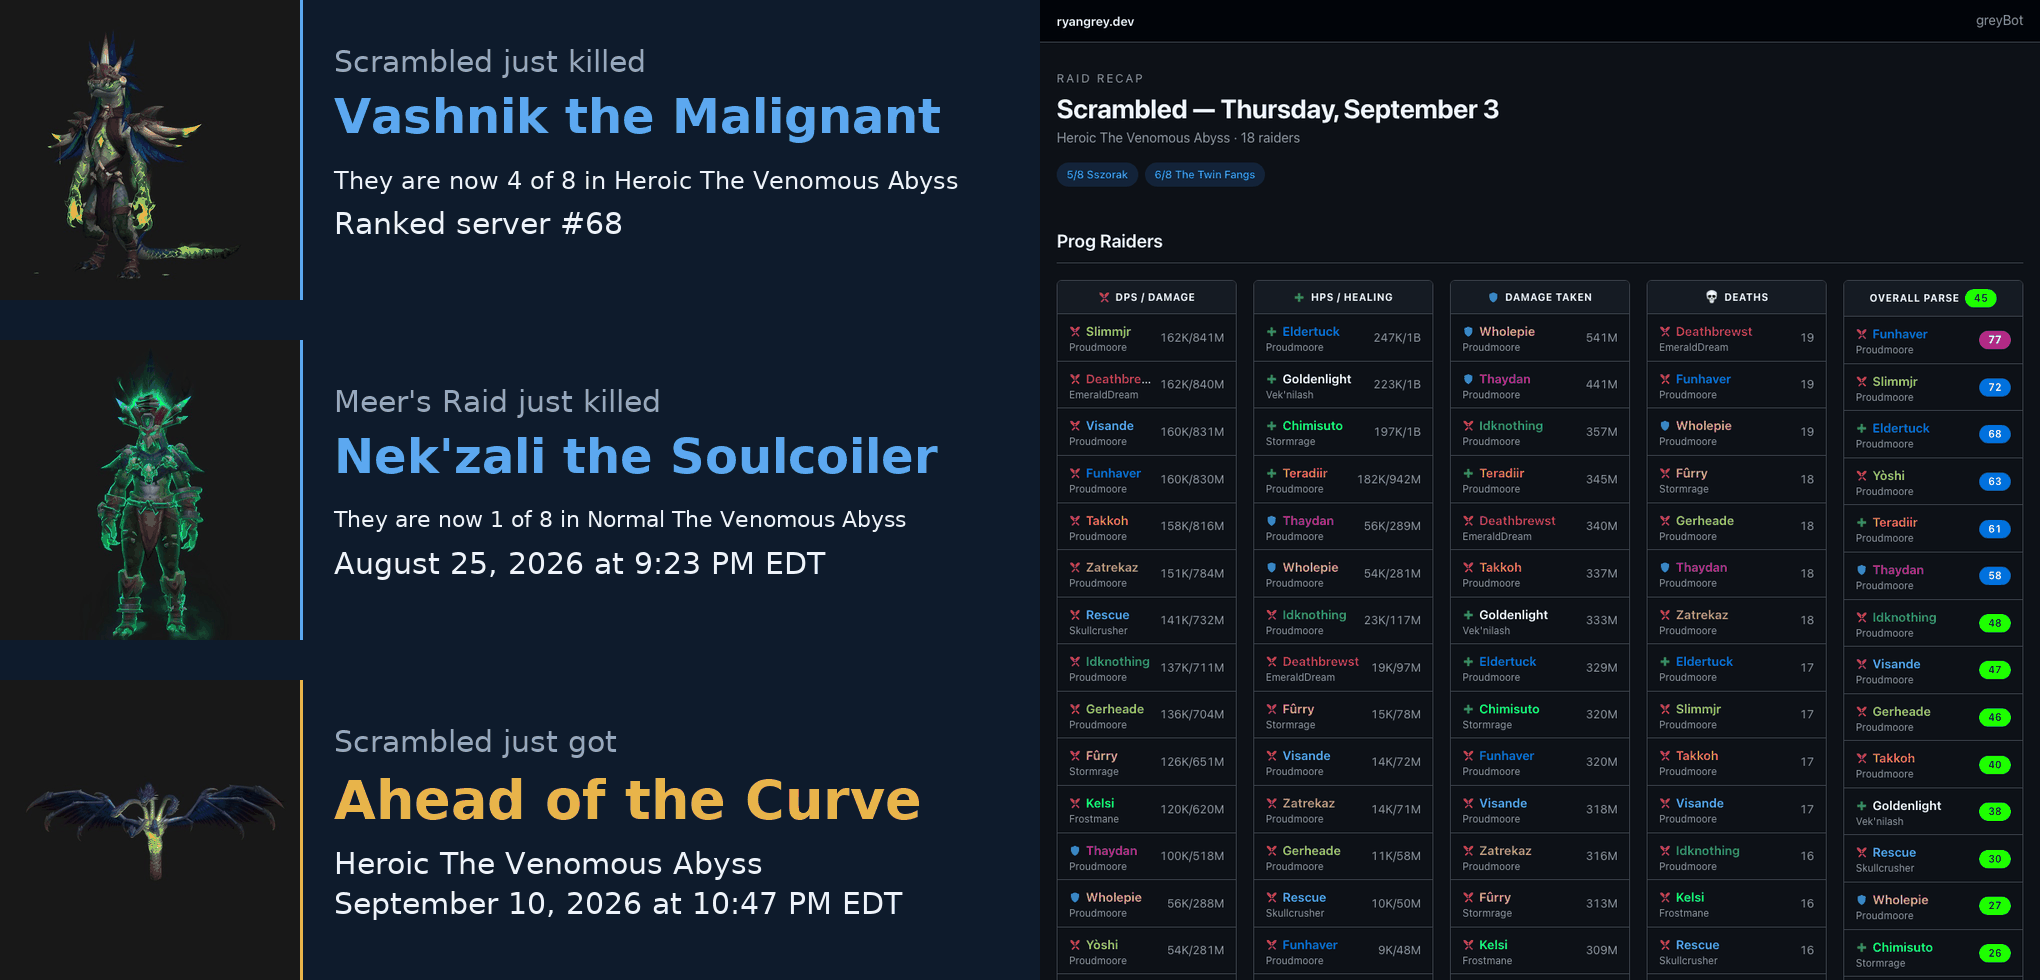
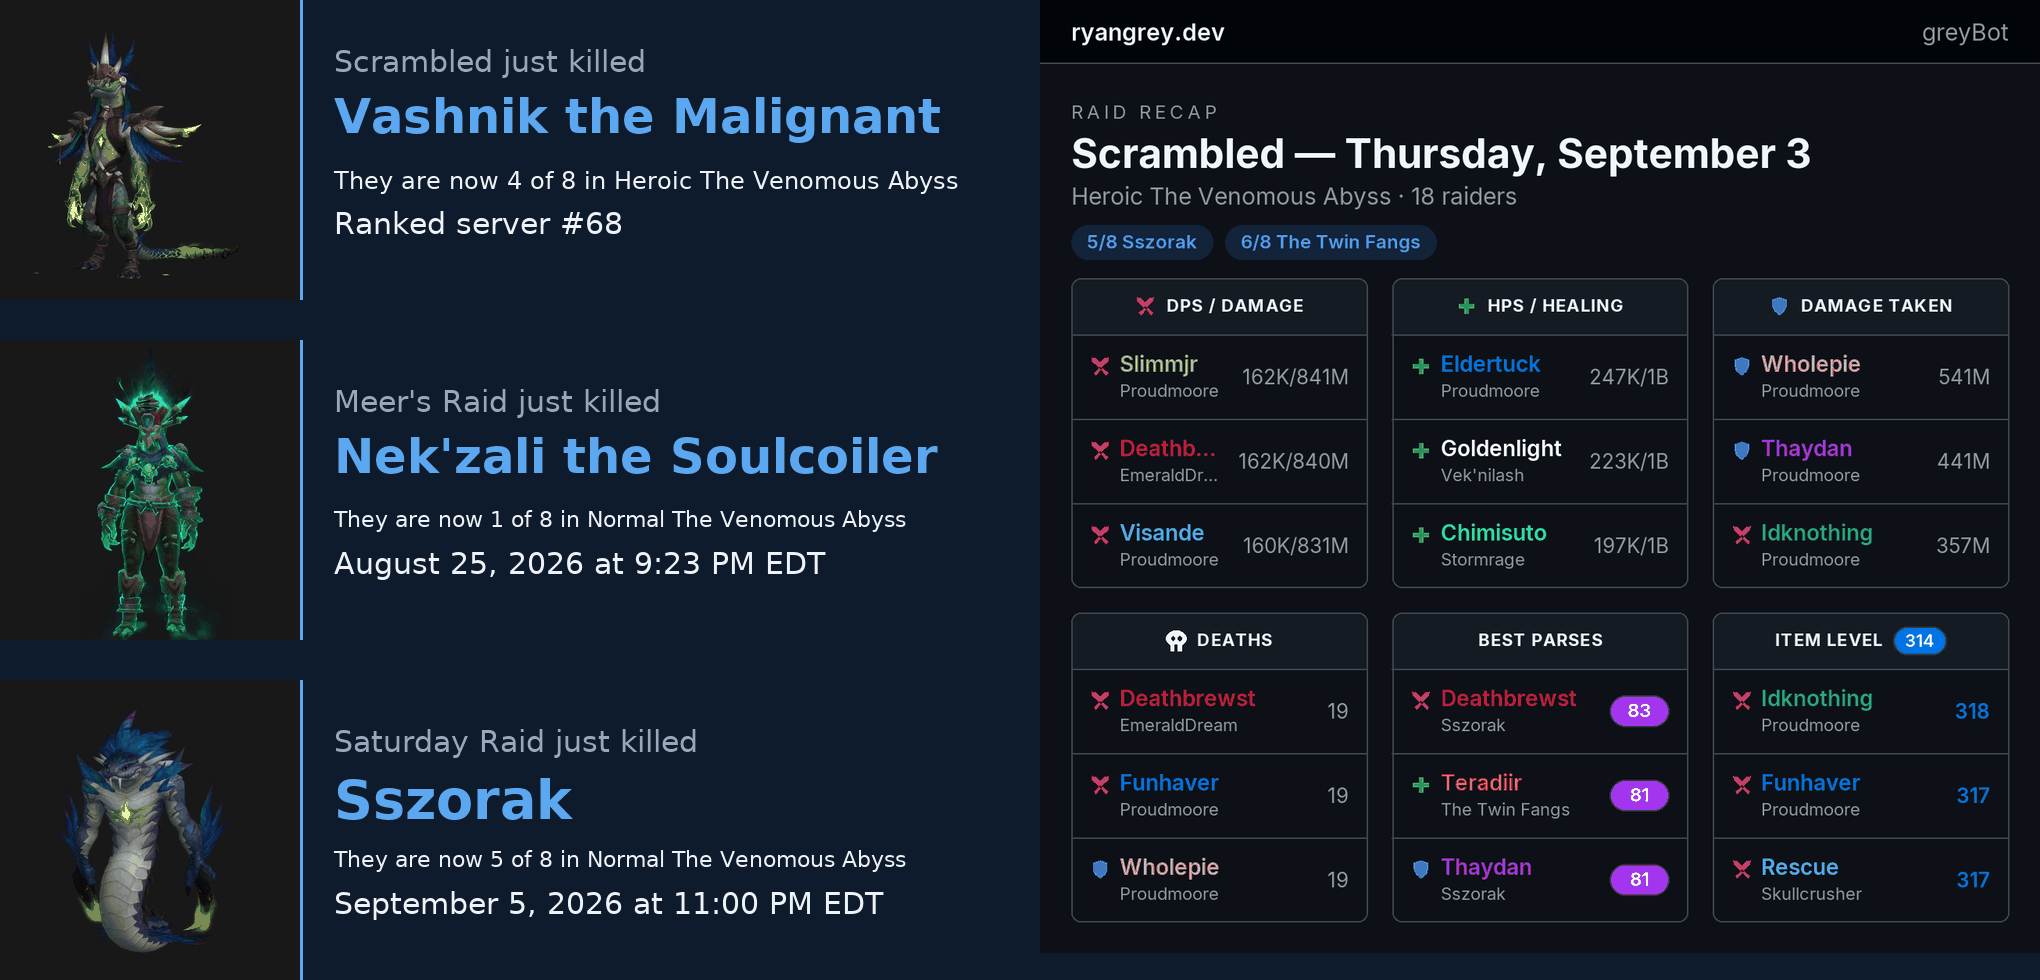
Update portfolio and site infrastructure

diff --git a/index.html b/index.html
@@ -428,23 +428,24 @@
       <span class="status live">Live</span>
       <h3>greyBot &mdash; Raid Progress &amp; Recaps for Discord</h3>
       <div class="meta"><a href="https://github.com/ryan-grey/greybot">github.com/ryan-grey/greybot</a></div>
-      <p>Serverless Discord bot that announces a raid guild&rsquo;s first kill of each boss, and a post-raid recap of how the night went &mdash; for two raid teams in the same server, each in its own channel. It reconciles three third-party APIs under a points-budgeted rate limit &mdash; one that charges by query complexity rather than by request &mdash; and both features share one function and one budget, the recap standing down at a higher reserve so the announcer never loses its headroom to it.</p>
+      <p>Serverless Discord bot that announces a raid guild&rsquo;s first kill of each boss, and a post-raid recap of how the night went &mdash; for three raid teams in the same server, each in its own channel, on its own schedule. It reconciles three third-party APIs under a points-budgeted rate limit &mdash; one that charges by query complexity rather than by request &mdash; and both features share one function and one budget, the recap standing down at a higher reserve so the announcer never loses its headroom to it.</p>
       <ul class="caps">
         <li><b>Exactly-once delivery</b> &mdash; enforced by a DynamoDB conditional write rather than read-then-write: the write that records a kill <i>is</i> the permission to post it, so two overlapping invocations cannot both announce into a live channel. A recap claims its night the same way, keyed on the date the raid started, so one running past midnight is still one night</li>
         <li><b>Two raid teams, one log source</b> &mdash; no API field separates them, so team identity is <i>derived</i> from who recurs across each tier&rsquo;s first kills rather than from a roster someone has to keep current. Two signals with a deliberate margin rather than a majority, because people legitimately raid on both teams; when they disagree it posts nothing rather than guess, since the card names individuals. Designed for that case rather than proven against it &mdash; so far it has only run where progression evidence alone was decisive</li>
-        <li><b>A second team as its own install</b> &mdash; the guild&rsquo;s other raid team logs under one raider&rsquo;s personal account, invisible to any query about the guild, so its install reads that account&rsquo;s uploads instead and keeps only the ones filed on its raid days, because the same person also logs a third team&rsquo;s Saturday. It announces Normal and Heroic firsts separately, each with its own dedupe set and its own tier-clear card, and shares <i>nothing</i> with the guild install &mdash; not the counts, which describe the guild rather than the team, and not the first-kill rosters, which must never feed the other team&rsquo;s derived one. Its history was posted after the fact as dated cards, without touching the state that decides what is new</li>
+        <li><b>Each further team as its own install</b> &mdash; the guild&rsquo;s second raid team logs under one raider&rsquo;s personal account, invisible to any query about the guild, so its install reads that account&rsquo;s uploads instead and keeps only the ones filed on its raid days, because the same person also logs the Saturday raid. The third team is the inverse case: its logs <i>are</i> filed to the guild, and the per-user query turned out to see personal uploads only &mdash; the first registration seeded nothing and was reset &mdash; so that install reads the guild&rsquo;s reports with the raid-day filter doing all of the telling-apart, and the registration script refuses a guild-sourced team with no raid days, since that would be the guild announced twice. Each announces Normal and Heroic firsts separately, with its own dedupe set and tier-clear card, and shares <i>nothing</i> with the guild install &mdash; not the counts, which describe the guild rather than the team, and not the first-kill rosters, which must never feed another team&rsquo;s derived one. Their history was posted after the fact as dated cards, without touching the state that decides what is new</li>
+        <li><b>The recap is drawn in the page&rsquo;s own markup</b> &mdash; six leaderboards as embed fields lay out as a grid on desktop and as one long column on a phone, so the recap is composited to a PNG: two rows of three cells, and every rule in it transcribed from the recap page&rsquo;s stylesheet &mdash; palette, bordered columns, role glyphs, class colours, quality-coloured parse pills &mdash; because the first drawing, a design of its own, read as a scoreboard from a different product next to the page it linked to. Item level is coloured on the same scale as a parse, by where it sits in Warcraft Logs&rsquo; own bracket range for the zone, read live so it rolls over with the tier. The card&rsquo;s object key carries a hash of its pixels, after a redrawn card published under its old key showed the old picture through two layers of cache. If it cannot be drawn or published, the same six leaderboards go out as text and one email says which night and why &mdash; a fallback that is allowed, and a silent one that is not</li>
         <li><b>Parsers built from captured responses, not from the spec</b> &mdash; three API fields return an untyped JSON scalar with undocumented internals, so a schema introspection first established what the API really accepts, and the parsers were written against a real captured response. That surfaced six defects the documentation would have hidden: among them a table that silently truncates at 200 rows, and identifiers scoped per-report rather than globally</li>
         <li><b>A preview that provably writes nothing</b> &mdash; renders a real card without posting or persisting, so it cannot consume the idempotency claim it exists to demonstrate. Two of those six defects were reachable only through it, and were caught before anything reached a live channel</li>
-        <li><b>Every night gets a published page</b> &mdash; the Discord card is a summary by necessity, so each raid night also writes a static per-night recap to its own subdomain: every raider ranked across damage and healing (per-second in front of the total, as Warcraft Logs computes it), damage taken, deaths and an overall parse scoped to the role they actually played, with the source logs hard-linked so any figure can be checked against what produced it. The bot holds <b style="font-weight:600">PutObject</b> on that bucket and nothing else &mdash; no read, no delete, and no reach into the bucket serving this site</li>
+        <li><b>Every night gets a published page</b> &mdash; the Discord card is a summary by necessity, so each raid night also writes a static per-night recap to its own subdomain: every raider ranked across damage and healing (per-second in front of the total, as Warcraft Logs computes it), damage taken, deaths, an overall parse scoped to the role they actually played, and item level, with the pulls and wipes on every boss in the header and the source logs hard-linked so any figure can be checked against what produced it. The bot holds <b style="font-weight:600">PutObject</b> on that bucket and nothing else &mdash; no read, no delete, and no reach into the bucket serving this site</li>
         <li><b>Announcements are drawn, not described</b> &mdash; a chat embed offers no control over where an image sits or how large it renders, so the first-kill card is composited server-side to PNG with the boss&rsquo;s own portrait beside the text. The obvious source was 56px and upscaling it was what made earlier attempts look wrong; the fix was better art, not better drawing. If anything in that path fails it returns nothing and the plain embed goes out instead, because decoration must not be able to cost the announcement it decorates</li>
         <li><b>Noticing a deleted post, with no event to subscribe to</b> &mdash; being kicked, banned or uninstalled all have probes; a deleted message has no signal a scheduled function can read, and it is the one that leaves the bot most confidently wrong, since its own state still records the night as posted and it will never repost. So it remembers what it posted and re-fetches it. Losing read access is deliberately <i>not</i> treated as a deletion, and the alert fires once rather than every fifteen minutes forever</li>
         <li><b>Fail-closed request verification</b> &mdash; a <b style="font-weight:600">/progress</b> slash command serves over Ed25519-verified HTTP interactions: the signature is checked over the raw body bytes, and tested against the invalid-signature probes Discord uses to police endpoints, because answering one of those with a 200 costs you the endpoint</li>
       </ul>
-      <p class="outcome">A 500+ check suite runs with no AWS, no network and no credentials, and gates every deploy. Runs at about $0.02/month on ARM Lambda. On its first live raid night it announced two first kills into the guild&rsquo;s channel &mdash; each exactly once &mdash; and a week later the second team was live in its own channel with the same guarantee.</p>
+      <p class="outcome">A 500+ check suite runs with no AWS, no network and no credentials, and gates every deploy. Runs at about $0.02/month on ARM Lambda. On its first live raid night it announced two first kills into the guild&rsquo;s channel &mdash; each exactly once &mdash; a week later the second team was live in its own channel with the same guarantee, and the third followed with its own recap schedule timed to a raid that runs past midnight.</p>
       <figure class="shot">
         <img src="greybot-cards.png" width="2040" height="980" loading="lazy" decoding="async"
-             alt="Three greyBot cards stacked: a Heroic first kill for Scrambled with the boss portrait beside the text, a Normal first kill for Meer's Raid dated by the kill, and the gold Ahead of the Curve card; beside them the top of a published recap page ranking eighteen raiders by DPS and damage, HPS and healing, damage taken, deaths and overall parse.">
-        <figcaption>What the bot draws, as it posted it: a first kill for each team, the tier-clear card, and the top of one night&rsquo;s published recap. Every pixel is the bot&rsquo;s own output rather than a capture of Discord &mdash; the cards are the PNGs it composited and published, and the page is the one it wrote. The names are public raiders on public logs; the AOTC card is the rendered preview, since the tier has not fallen yet.</figcaption>
+             alt="Three greyBot first-kill cards stacked, one per raid team: a Heroic kill for Scrambled with the boss portrait beside the text, and Normal kills for Meer's Raid and the Saturday Raid, each dated by the kill; beside them the drawn recap card for one night, a two-by-three grid of DPS and damage, HPS and healing, damage taken, deaths, best parses and item level in the recap page's own style.">
+        <figcaption>What the bot draws, as it posted it: a first kill for each of the three teams, and one night&rsquo;s recap card &mdash; the same six leaderboards the page carries, drawn in the page&rsquo;s own markup so the card and the page it links to read as one thing. Every pixel is the bot&rsquo;s own output rather than a capture of Discord; the names are public raiders on public logs.</figcaption>
       </figure>
       <div class="stack"><span>Lambda</span><span>EventBridge</span><span>DynamoDB</span><span>S3 &amp; CloudFront</span><span>API Gateway</span><span>SSM &amp; KMS</span><span>Python</span></div>
     </div>
